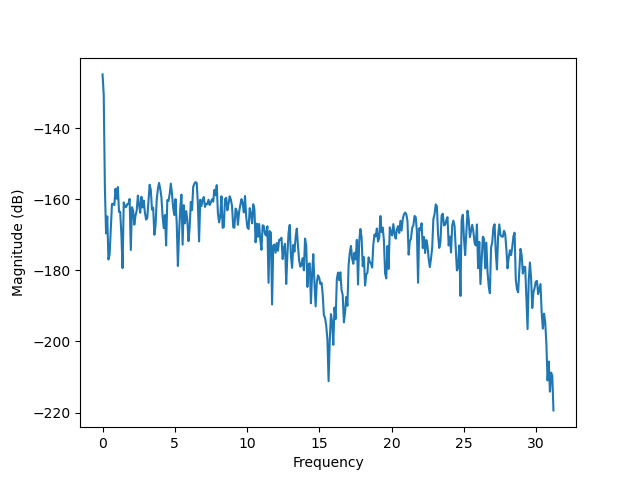
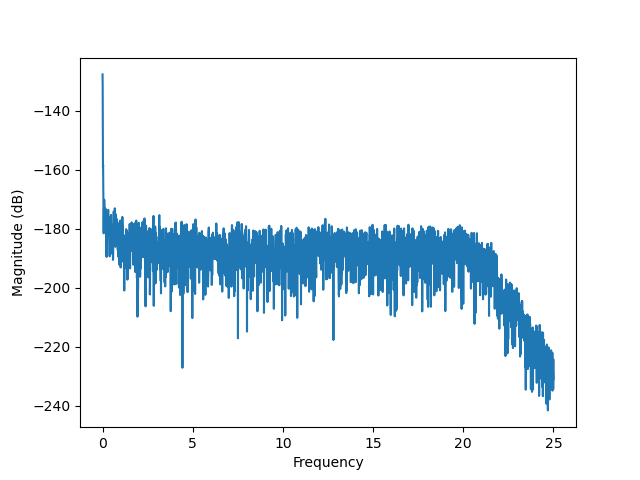
fixed lowpass and downsample

diff --git a/Examples/lowpassAndDownsampleFileEx.py b/Examples/lowpassAndDownsampleFileEx.py
@@ -12,17 +12,20 @@ plt.switch_backend('agg')
 
 def main(argv):
 	fileName = argv[0]
-	integerDownsampleFactor = 8;
+	integerDownsampleFactor = 10;
 	#Get data
 	(data, sampling_duration, number_time_samples, sampling_freq) = lowpassDownsample.getFileData(fileName);
 	#Run lowpass filter and downsample 
-	(time, signal, downsample_time, downsample_signal, sample_freq, downsampled_sample_freq) = lowpassDownsample.runLowpassAndDownsample(data, sampling_duration, number_time_samples,sampling_freq,integerDownsampleFactor);
-	channelNumber = 25;
-	startTime = 3.00;
-	endTime = 10.0;
+	(time, signal, downsample_time, downsample_signal, sample_freq, downsampled_sample_freq) = lowpassDownsample.runLowpassAndDownsample(data,sampling_duration,number_time_samples,sampling_freq,integerDownsampleFactor);
+	channelNumber = 30;
+	#print(downsample_time.shape, file = sys.stderr);
+	print(downsample_signal[channelNumber,:].shape, file = sys.stderr);
 	#Plot lowpass filter on channelNumber
-	lowpassDownsample.plotLowpassDownsample(time,signal,downsample_time,downsample_signal,channelNumber,startTime,endTime);
+	lowpassDownsample.plotLowpassDownsample(time,signal,downsample_time,downsample_signal,channelNumber);
+	
+	#lowpassDownsample.plotLowpass(time,signal,channelNumber);
 	lowpassDownsample.plotAmplitudeSpectrum(signal, downsample_signal, channelNumber, sample_freq,downsampled_sample_freq);
+	#lowpassDownsample.plotDownsample(downsample_time,downsample_signal,channelNumber);
 if __name__ == "__main__":
 	main(sys.argv[1:])
 
